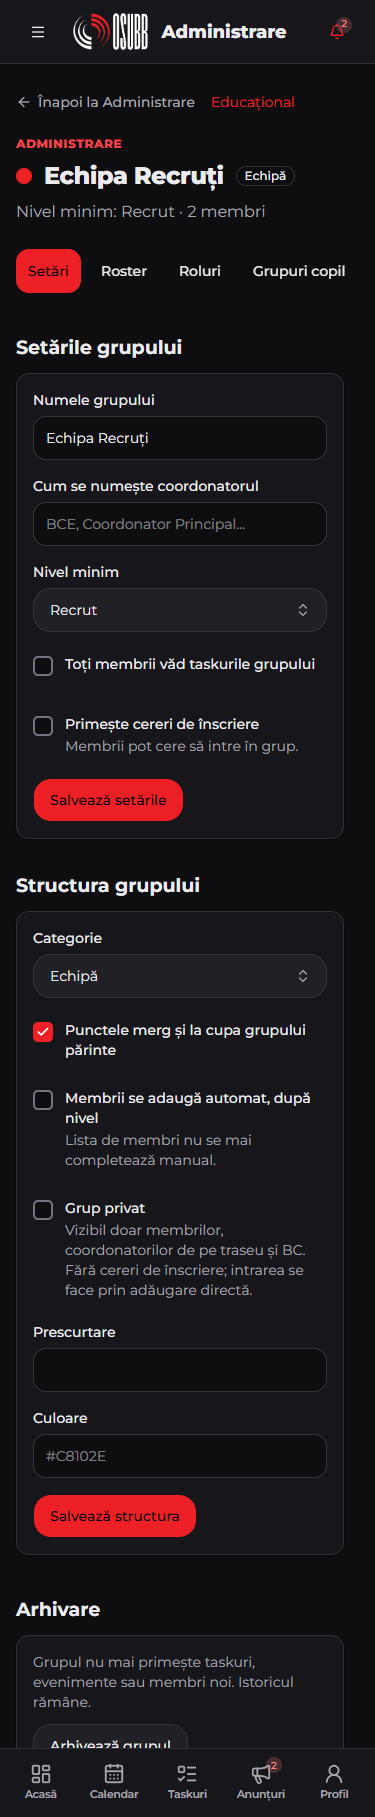
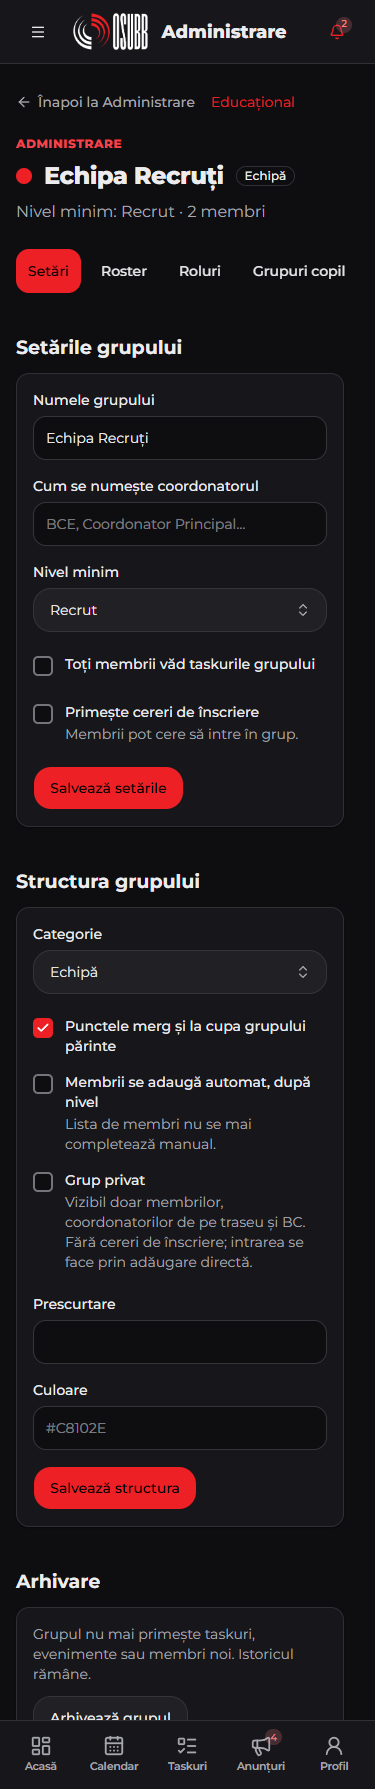
fix(administrare): settings panels as tall as their content; mock supabase in the tab rule's test (#853)
Setări, Structura and Arhivare stack in one reading-width column instead of
stretching side by side (Alex's 2026-09-28 layout ruling), and
applications-tab.test.ts no longer needs Supabase env (CI failure).

diff --git a/app/src/screens/administrare/GroupSettingsTab.tsx b/app/src/screens/administrare/GroupSettingsTab.tsx
@@ -1,8 +1,7 @@
 import { useState, type FormEvent, type ReactNode } from 'react';
 import { Link } from 'react-router';
-import { cn } from 'cn';
 import { AttachedLinkFields } from '../../components/attached-link/AttachedLinkFields';
-import { PageGrid, Panel, SubHeading } from '../../components/layout';
+import { Panel, SubHeading } from '../../components/layout';
 import { Button } from '../../components/ui/button';
 import { Checkbox } from '../../components/ui/checkbox';
 import { FieldError } from '../../components/ui/field';
@@ -275,8 +274,7 @@ function ArchiveGroupDialog({
 
 /**
  * A Group's settings, structure and archiving (layout AD3): three panels in
- * a reading-width column, or Setări beside Structura from 768 px when the
- * viewer edits both, with Arhivare below. Each form saves on its own, and
+ * a reading-width column, each as tall as its content. Each form saves on its own, and
  * each field shows once — a top-level Group's Minimum Level is structure
  * (BC's), a Child Group's is its Managers' setting (relevance B52).
  */
@@ -766,17 +764,13 @@ export function GroupSettingsTab({
     </Panel>
   );
 
-  const both = showSettings && showStructure;
+  // One reading-width column: the forms are unrelated and of different
+  // lengths, so each panel is as tall as its content rather than stretched
+  // to its neighbour (Alex, 2026-09-28: no half-empty boxes).
   return (
-    <div className={cn('flex flex-col gap-6', !both && 'max-w-2xl')}>
-      {both ? (
-        <PageGrid columns={2} alignHeaders>
-          {settingsPanel}
-          {structurePanel}
-        </PageGrid>
-      ) : (
-        settingsPanel || structurePanel
-      )}
+    <div className="flex max-w-2xl flex-col gap-6">
+      {settingsPanel}
+      {structurePanel}
 
       {showArchive && (
         <Panel title="Arhivare">

diff --git a/app/src/screens/administrare/applications-tab.test.ts b/app/src/screens/administrare/applications-tab.test.ts
@@ -1,4 +1,6 @@
-import { expect, it } from 'vitest';
+import { expect, it, vi } from 'vitest';
+
+vi.mock('../../lib/supabase', () => ({ supabase: {} }));
 import { applicationsTabShown } from './applications-tab';
 
 const group = (
